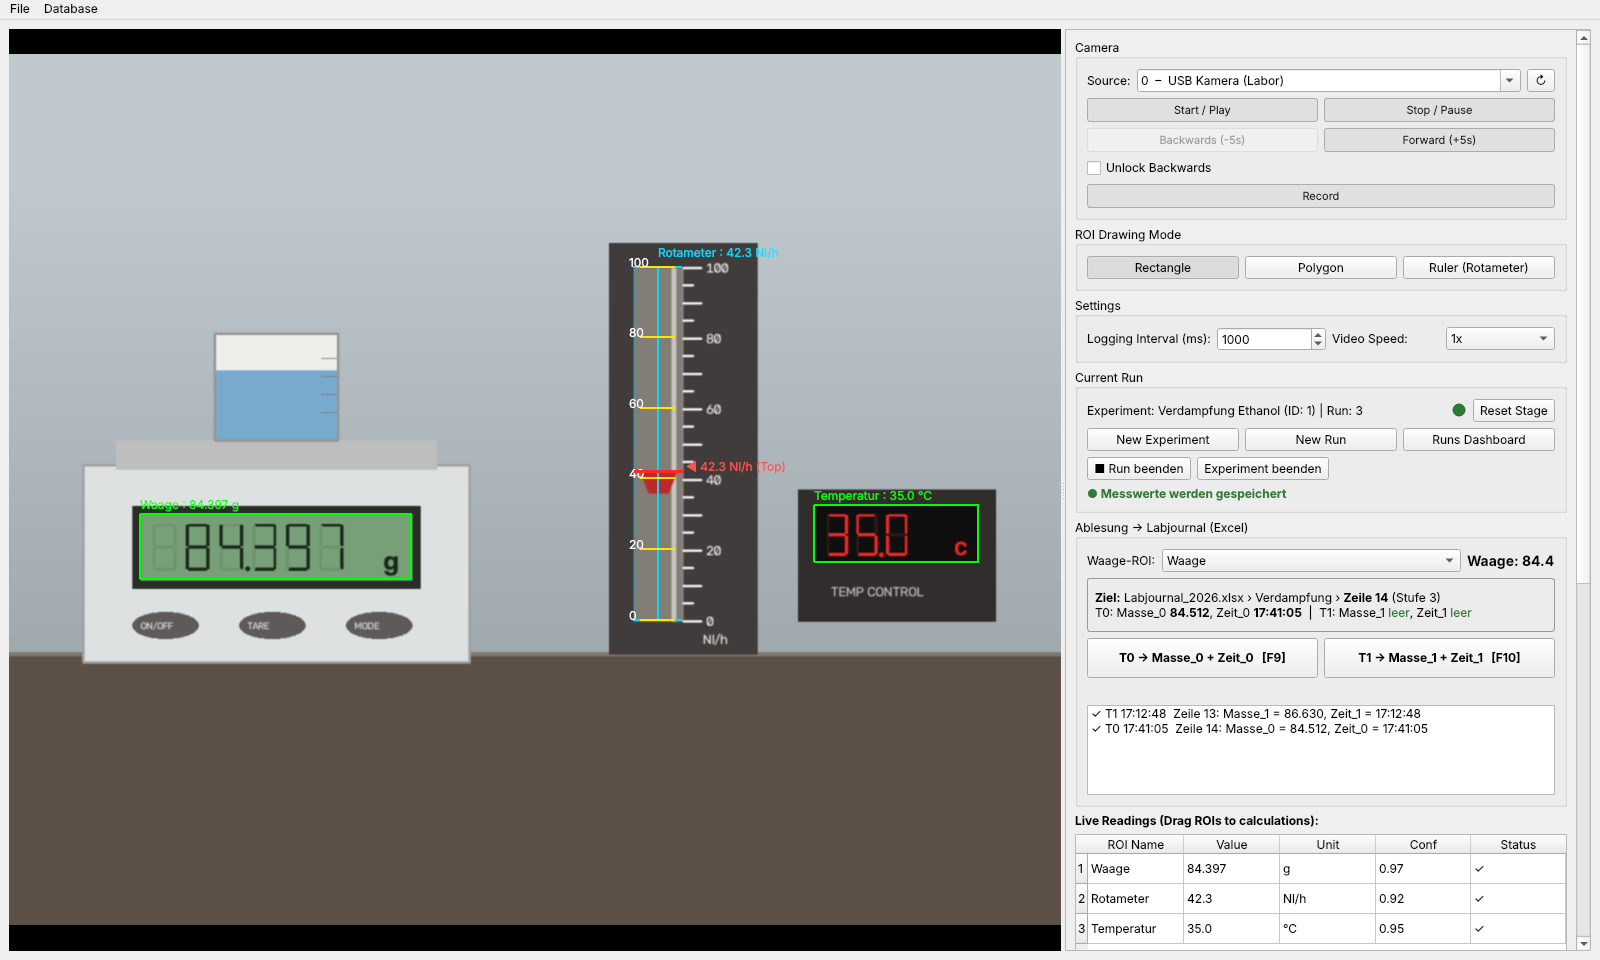
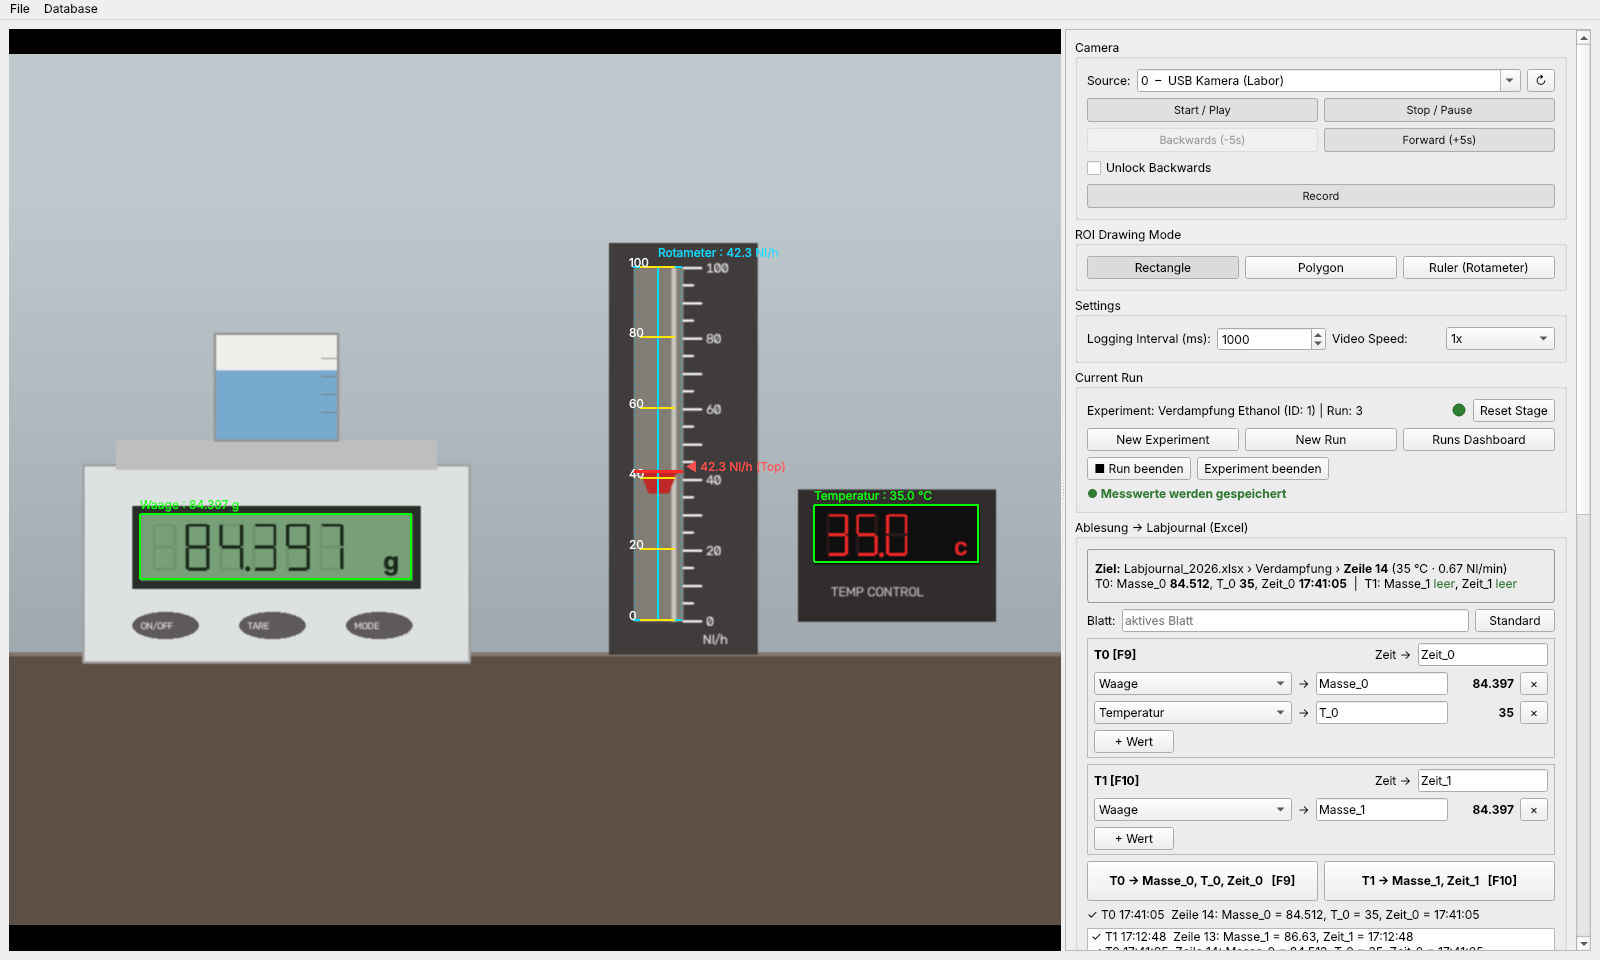
README: Screenshots und Ablesung-Text an konfigurierbares Excel-Ziel anpassen
Screenshot-Skript nutzt die neue AblesungConfig (T0: Waage + Temperatur,
T1: Waage), erzeugt zusätzlich ablesung.png und schneidet messwerte.png
ab den Live-Werten zu. README beschreibt die freie Zuordnung
Live-Reading -> Spalte pro Taste.

Claude-Session: https://claude.ai/code/session_012zEpZFCY2CG8AdSiBnkCeX

Changed region(s): [[0.6562, 0.5625, 0.9688, 1.0]]

diff --git a/scripts/readme_screenshots.py b/scripts/readme_screenshots.py
@@ -14,7 +14,6 @@ import sqlite3
 import time
 from datetime import datetime
 from pathlib import Path
-from types import SimpleNamespace
 
 os.environ.setdefault("QT_QPA_PLATFORM", "offscreen")
 os.environ["INSTRUMENT_READER_DATA_DIR"] = tempfile.mkdtemp(prefix="ir-screens-")
@@ -26,6 +25,7 @@ from PySide6.QtCore import QTimer
 from PySide6.QtWidgets import QApplication, QSplitter
 
 from instrument_reader.core.calculation import CalculationChannel
+from instrument_reader.core.excel_link import AblesungConfig, SlotConfig, Target, ValueColumn
 from instrument_reader.core.preprocessing import PreprocessingConfig
 from instrument_reader.core.roi import DisplayType, ROIConfig, ROIShape
 
@@ -208,6 +208,14 @@ def main():
         conn.execute("UPDATE experiments SET created_at = ? WHERE id = ?", (_iso(t_start - 60), exp_id))
     win.set_active_run(db.current_run_id, exp_id, "Verdampfung Ethanol")
 
+    # Excel-Ziel: T0 schreibt Waage und Temperatur, T1 nur die Waage, beide mit Uhrzeit
+    abl = AblesungConfig(slots={
+        "T0": SlotConfig([ValueColumn("Waage", "Masse_0"), ValueColumn("Temperatur", "T_0")], "Zeit_0"),
+        "T1": SlotConfig([ValueColumn("Waage", "Masse_1")], "Zeit_1"),
+    })
+    win.control_panel.set_ablesung_config(abl)
+    win.excel_link.config = abl
+
     # Live-Werte einspeisen, damit Rechenkanal und Stufenerkennung echte Werte zeigen
     now = time.time()
     mass = flow = temp = 0.0
@@ -219,20 +227,27 @@ def main():
 
     # So sieht das Ablesung-Panel aus, wenn Excel mit dem Labjournal offen ist
     clock = lambda h, m, s: (h * 3600 + m * 60 + s) / 86400
-    win.control_panel.show_excel_target(SimpleNamespace(
-        workbook="Labjournal_2026.xlsx", sheet="Verdampfung", row=14, context="Stufe 3",
-        values={"Masse_0": 84.512, "Zeit_0": clock(17, 41, 5), "Masse_1": None, "Zeit_1": None}))
-    for text in ("✓ T0 17:41:05  Zeile 14: Masse_0 = 84.512, Zeit_0 = 17:41:05",
-                 "✓ T1 17:12:48  Zeile 13: Masse_1 = 86.630, Zeit_1 = 17:12:48"):
+    win.control_panel.show_excel_target(Target(
+        workbook="Labjournal_2026.xlsx", sheet="Verdampfung", row=14, cols={},
+        values={"Masse_0": 84.512, "T_0": 35.0, "Zeit_0": clock(17, 41, 5), "Masse_1": None, "Zeit_1": None},
+        context_values={"Temperatur": 35, "V_MFC": 0.67}), config=abl)
+    for text in ("✓ T0 17:41:05  Zeile 14: Masse_0 = 84.512, T_0 = 35, Zeit_0 = 17:41:05",
+                 "✓ T1 17:12:48  Zeile 13: Masse_1 = 86.63, Zeit_1 = 17:12:48"):
         win.control_panel.add_ablesung_history(text)
+    win.control_panel.set_ablesung_status(
+        "✓ T0 17:41:05  Zeile 14: Masse_0 = 84.512, T_0 = 35, Zeit_0 = 17:41:05")
 
     def shoot():
         save(win, "hauptfenster.png")
-        # Rechte Seite nach unten gescrollt: Live-Werte und Rechenkanäle
+        save(win.control_panel.excel_target_label.parentWidget(), "ablesung.png")
+        # Rechte Seite ab den Live-Werten: Live-Werte, Rechenkanäle und ROI-Liste
+        from PySide6.QtCore import QPoint, QRect
         from PySide6.QtWidgets import QScrollArea
-        scroll = win.control_panel.findChild(QScrollArea)
-        scroll.verticalScrollBar().setValue(scroll.verticalScrollBar().maximum())
-        save(win.control_panel, "messwerte.png")
+        content = win.control_panel.findChild(QScrollArea).widget()
+        top = win.control_panel.readings_table.mapTo(content, QPoint(0, 0)).y() - 30
+        QApplication.processEvents()
+        content.grab(QRect(0, top, content.width(), content.height() - top)).save(str(OUT / "messwerte.png"))
+        print("geschrieben:", OUT / "messwerte.png")
 
         dash = RunsDashboardDialog(win.db_writer.db, current_run_id=db.current_run_id, parent=win)
         dash.resize(1500, 560)

diff --git a/README.md b/README.md
@@ -20,8 +20,8 @@ erkannten Werte live mit.*
   Massenstrom in g/h. Stufenwechsel (Nachfüllen, Umsetzen) erkennt sie und rechnet sie heraus.
 - **Gasdurchfluss am Rotameter:** Schwimmerposition entlang eines frei drehbaren Lineals, mit
   eigener Kalibrierung.
-- **Laborjournal in Excel:** Mit F9/F10 Waagenwert und Uhrzeit direkt in die offene Zeile
-  des Labjournals schreiben.
+- **Laborjournal in Excel:** Mit F9/F10 beliebige Live-Werte (z. B. Waage und Temperatur)
+  samt Uhrzeit direkt in die offene Zeile des Labjournals schreiben.
 - **Nachträgliche Auswertung:** Ein aufgenommenes Video wird mit bis zu 10-facher Geschwindigkeit
   oder „so schnell wie möglich“ nachgelesen, die Zeitachse stimmt trotzdem.
 
@@ -49,6 +49,20 @@ Anzahl Messwerte und eine Vorschau, setzt beendete Runs fort und exportiert mehr
 gemeinsam als CSV.
 
 ![Runs Dashboard mit drei Runs eines Verdampfungsexperiments](docs/images/runs-dashboard.png)
+
+<table>
+  <tr>
+    <td width="45%"><img src="docs/images/ablesung.png" alt="Ablesung-Panel: T0 schreibt Waage, Temperatur und Zeit, T1 Waage und Zeit ins Labjournal"></td>
+    <td>
+      <b>Ablesung ins Excel-Labjournal</b><br>
+      Pro Taste (T0 = F9, T1 = F10) legst du fest, welche Live-Readings in welche Spalte
+      geschrieben werden, plus eine Spalte für die Uhrzeit. Spalten gehen per Überschrift
+      (<code>Masse_0</code>) oder Buchstabe (<code>D</code>). Oben steht, in welche Zeile der
+      nächste Tastendruck schreibt und welche Zellen dort noch leer sind; darunter die letzten
+      Ablesungen.
+    </td>
+  </tr>
+</table>
 
 ## Installation und Start
 
@@ -84,11 +98,19 @@ uv run --extra dev pytest
   freigeschaltet werden.
 
 - **Ablesung → Labjournal:** Labjournal in Excel öffnen, Cursor in die Zeile des Messschritts
-  setzen, Waagen-ROI wählen. **F9 (T0)** schreibt Waagenwert und Uhrzeit in Masse_0/Zeit_0,
-  **F10 (T1)** in Masse_1/Zeit_1 dieser Zeile. Die Tasten gehen auch, wenn Excel vorne ist.
-  Belegte Zellen werden nie überschrieben; das Panel zeigt vorher, wohin geschrieben wird.
-  Jeder Tastendruck steht zusätzlich in `ablesungen/Ablesungen_<Datum>.csv`.
-  `INSTRUMENT_READER_EXCEL=0` schaltet die Excel-Anbindung und die Tasten ab.
+  setzen. **F9 (T0)** und **F10 (T1)** schreiben die eingestellten Werte und die Uhrzeit in
+  diese Zeile. Die Tasten gehen auch, wenn Excel vorne ist.
+  - *Was geschrieben wird:* Pro Taste beliebig viele Zeilen „Live-Reading → Spalte“
+    (*+ Wert* fügt eine hinzu, *×* entfernt sie) und eine Zeit-Spalte (leer = keine Zeit).
+    Spalte = Überschrift im Labjournal oder Spaltenbuchstabe. *Blatt* begrenzt das Schreiben
+    auf ein Blatt (leer = aktives Blatt). *Standard* setzt zurück auf
+    T0: Waage → Masse_0, Zeit_0 und T1: Waage → Masse_1, Zeit_1.
+    Die Einstellung wird bei jeder Änderung gespeichert.
+  - *Alles oder nichts:* Ist einer der Werte ungültig, wird für diesen Tastendruck nichts
+    geschrieben. Belegte Zellen werden nie überschrieben; das Panel zeigt vorher, wohin
+    geschrieben wird.
+  - Jeder Tastendruck steht zusätzlich in `ablesungen/Ablesungen_<Datum>.csv`.
+    `INSTRUMENT_READER_EXCEL=0` schaltet die Excel-Anbindung und die Tasten ab.
 
 Alle Daten liegen im Datenordner, siehe [Datensicherheit](#datensicherheit).
 
